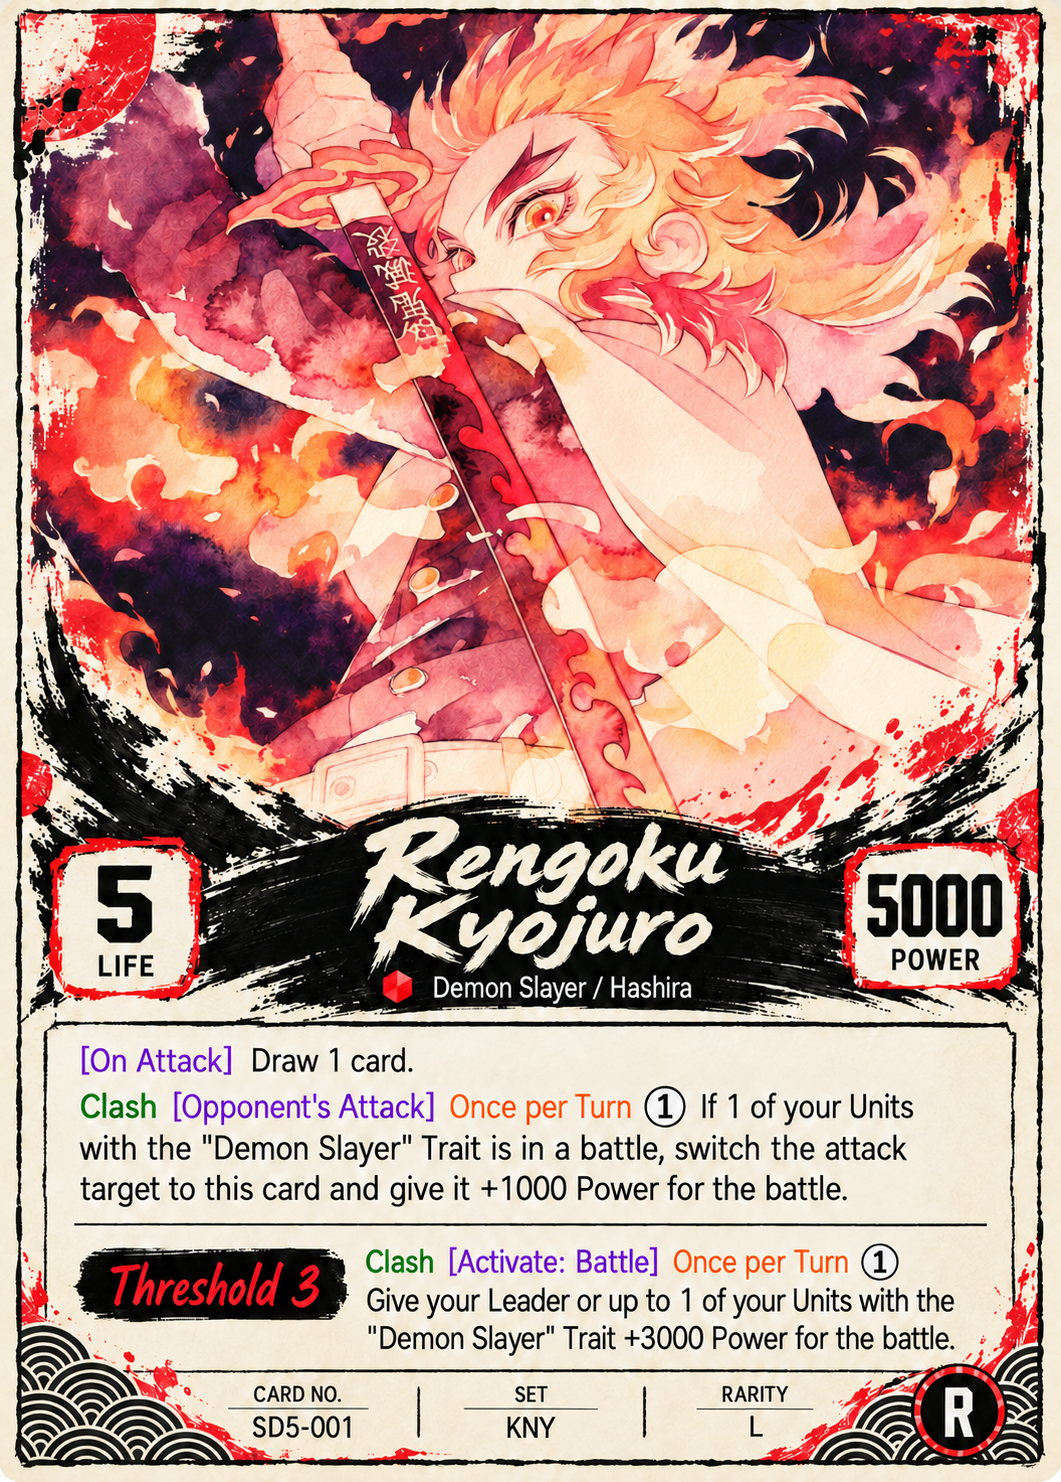
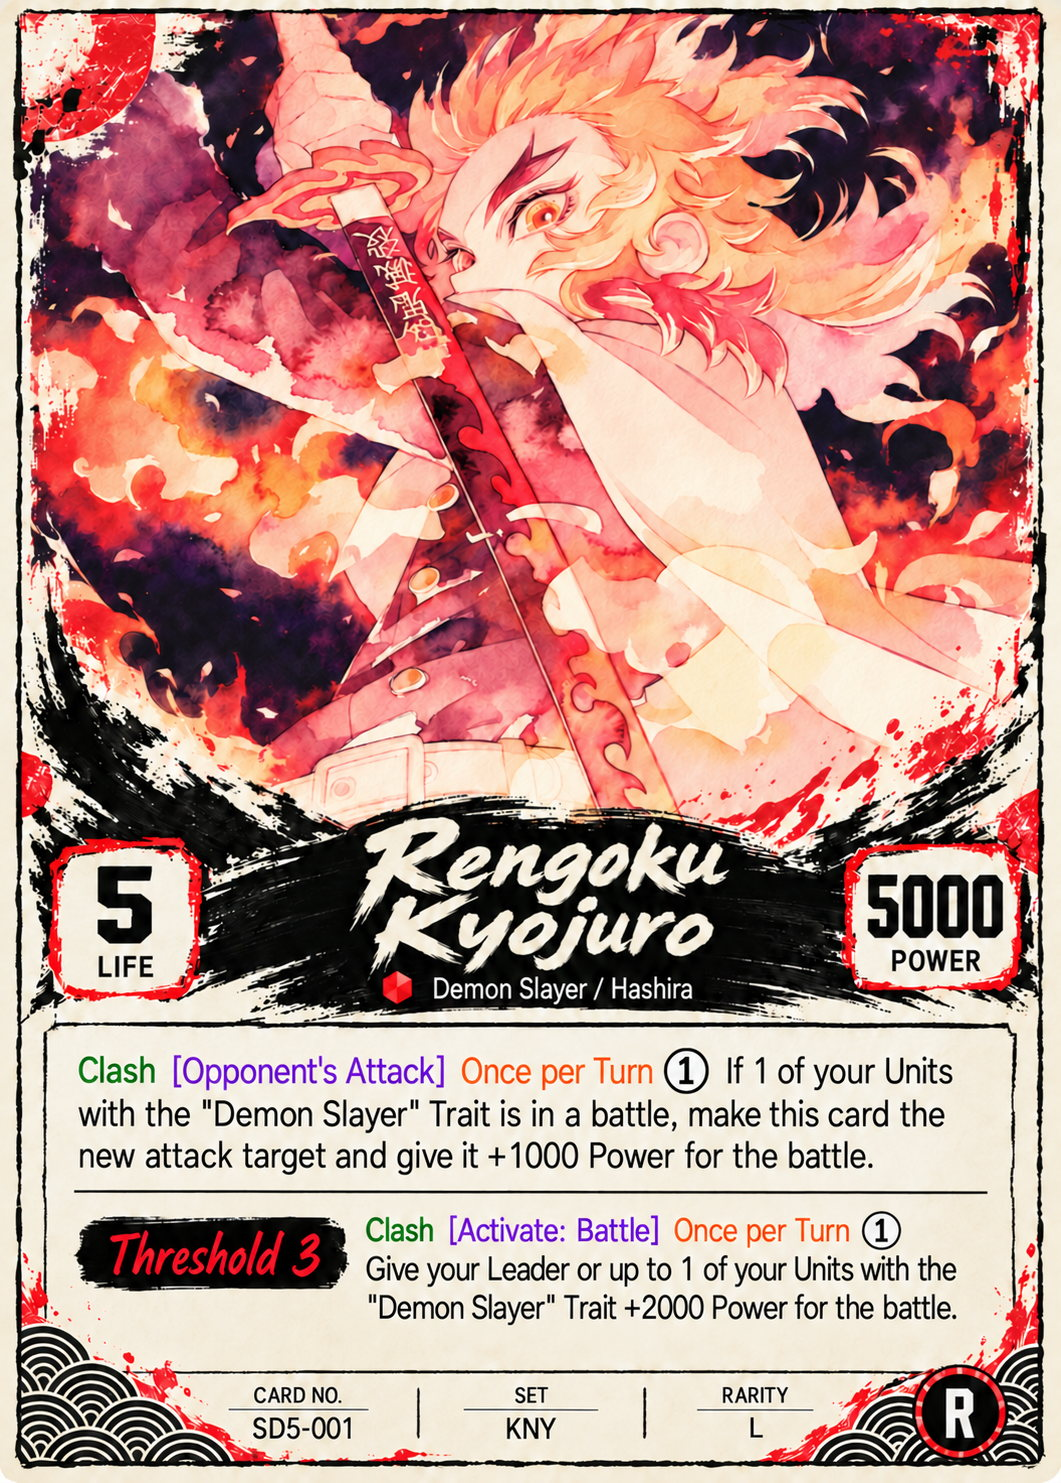
Update Rengoku Leader standard and alternate prints

diff --git a/card-text-data.js b/card-text-data.js
@@ -18349,8 +18349,8 @@ window.SJTCG_CARD_TEXT = {
     "set": "KNY",
     "rarity": "L",
     "bottom_right_circle": "R",
-    "effect": "[On Attack] Draw 1 card.\nClash [Opponent's Attack] Once per Turn (1) If 1 of your Units with the \"Demon Slayer\" Trait is in a battle, switch the attack target to this card and give it +1000 Power for the battle.\nThreshold 3 Clash [Activate: Battle] Once per Turn (1) Give your Leader or up to 1 of your Units with the \"Demon Slayer\" Trait +3000 Power for the battle.",
-    "effect_html": "<span class=\"kw kw-purple\" title=\"Timing window\">[On Attack]</span> Draw 1 card.<br><span class=\"kw kw-green\" title=\"Clash\">Clash</span> <span class=\"kw kw-purple\" title=\"Timing window\">[Opponent&#x27;s Attack]</span> <span class=\"kw kw-orange\" title=\"Once per Turn\">Once per Turn</span> (1) If 1 of your Units with the &quot;Demon Slayer&quot; Trait is in a battle, switch the attack target to this card and give it +1000 Power for the battle.<br><span class=\"kw kw-orange\" title=\"Threshold X\">Threshold 3</span> <span class=\"kw kw-green\" title=\"Clash\">Clash</span> <span class=\"kw kw-purple\" title=\"Timing window\">[Activate: Battle]</span> <span class=\"kw kw-orange\" title=\"Once per Turn\">Once per Turn</span> (1) Give your Leader or up to 1 of your Units with the &quot;Demon Slayer&quot; Trait +3000 Power for the battle.",
+    "effect": "Clash [Opponent's Attack] Once per Turn (1) If 1 of your Units with the \"Demon Slayer\" Trait is in a battle, make this card the new attack target and give it +1000 Power for the battle.\nThreshold 3 Clash [Activate: Battle] Once per Turn (1) Give your Leader or up to 1 of your Units with the \"Demon Slayer\" Trait +2000 Power for the battle.",
+    "effect_html": "<span class=\"kw kw-green\" title=\"Clash\">Clash</span> <span class=\"kw kw-purple\" title=\"Timing window\">[Opponent&#x27;s Attack]</span> <span class=\"kw kw-orange\" title=\"Once per Turn\">Once per Turn</span> (1) If 1 of your Units with the &quot;Demon Slayer&quot; Trait is in a battle, make this card the new attack target and give it +1000 Power for the battle.<br><span class=\"kw kw-orange\" title=\"Threshold X\">Threshold 3</span> <span class=\"kw kw-green\" title=\"Clash\">Clash</span> <span class=\"kw kw-purple\" title=\"Timing window\">[Activate: Battle]</span> <span class=\"kw kw-orange\" title=\"Once per Turn\">Once per Turn</span> (1) Give your Leader or up to 1 of your Units with the &quot;Demon Slayer&quot; Trait +2000 Power for the battle.",
     "notes": "",
     "transcription_status": "verified",
     "release": "SD5",

diff --git a/cards-data.js b/cards-data.js
@@ -10798,13 +10798,13 @@ window.SJTCG_CARD_DATA = [
     "cardType": "Leader",
     "deckLimit": 1,
     "orientation": "Portrait",
-    "imageVersion": "9c4342de47ab",
+    "imageVersion": "e074f99bbb78",
     "altImages": [
       {
         "label": "ST7 Leader Reprint — Alt Art",
         "image": "images/SD5-001-alt1.jpg",
         "release": "ST7",
-        "imageVersion": "c1ddc333504b"
+        "imageVersion": "9827adbfc9f2"
       }
     ]
   },

diff --git a/index.html b/index.html
@@ -214,8 +214,8 @@
     </section>
   </div>
 
-  <script src="cards-data.js?v=fac9ce337960"></script>
-  <script src="card-text-data.js?v=b5fbf6341caf"></script>
+  <script src="cards-data.js?v=53616c11c3f1"></script>
+  <script src="card-text-data.js?v=e551dfa607f7"></script>
   <script src="app.js?v=20261009-reprint-search-2"></script>
 </body>
 </html>
